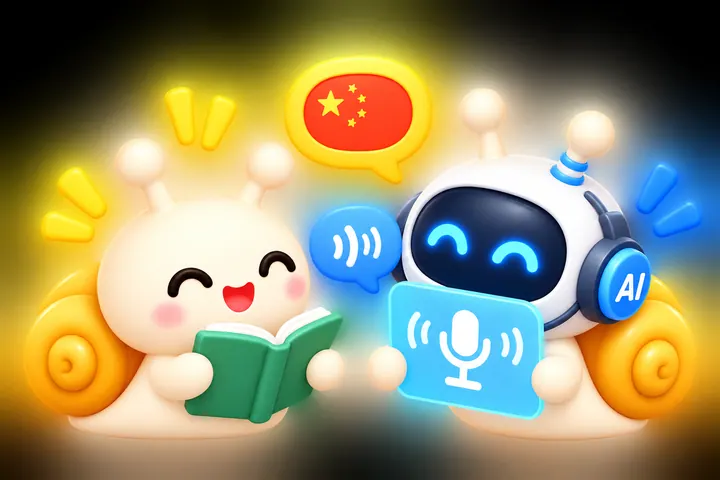
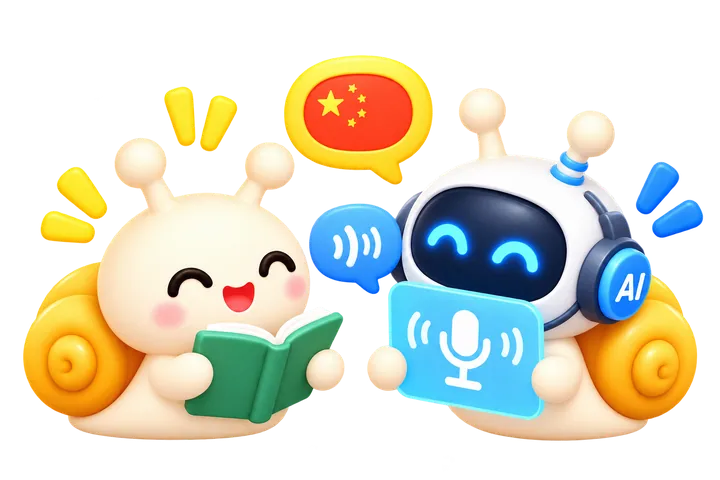
v115

diff --git a/app.js b/app.js
@@ -35,7 +35,7 @@
     }, wait);
   }
 
-  var APP_VERSION = 'v141';
+  var APP_VERSION = 'v147';
 
   var QMAP = {};
   LESSONS.forEach(function (l) { l.qs.forEach(function (q) { QMAP[q.id] = q; }); });
@@ -600,7 +600,7 @@
 
   /* ---------- 화면 이동 ---------- */
   // 뒤로 가기: 폰의 뒤로 제스처·버튼(기록)과 화면 왼쪽 가장자리에서 오른쪽으로 미는 동작을 같이 처리해요
-  var SUBSCREEN = { pay: 1, privacy: 1, login: 1, intro: 1, practice: 1, quiz: 1, stats: 1, done: 1, hsk: 1, hskstudy: 1, tone: 1, feedback: 1, speed: 1, account: 1, coupon: 1, aicharge: 1, aichat: 1, aiall: 1, aichats: 1, aichatlog: 1, scene: 1, chain: 1, prefs: 1, about: 1, advisor: 1 };
+  var SUBSCREEN = { pay: 1, privacy: 1, login: 1, intro: 1, practice: 1, quiz: 1, stats: 1, done: 1, hsk: 1, hskstudy: 1, tone: 1, feedback: 1, speed: 1, account: 1, coupon: 1, aicharge: 1, aichat: 1, aiall: 1, aichats: 1, aichatlog: 1, scene: 1, chain: 1, phrases: 1, prefs: 1, about: 1, advisor: 1 };
   var inSub = false, ignorePop = 0, backAnim = false;
   function syncHistory(screen) {
     try {
@@ -638,7 +638,7 @@
     else if (sc === 'scene') { stopSpeak(); scStopRec(); state.sc = null; go('tab'); }
     else if (sc === 'done') go('tab', { tab: 'home' });
     else if (sc === 'feedback' || sc === 'account' || sc === 'coupon') go('prefs');
-    else if (sc === 'intro' || sc === 'stats' || sc === 'aicharge' || sc === 'aiall' || sc === 'prefs' || sc === 'about' || sc === 'advisor') go('tab');
+    else if (sc === 'intro' || sc === 'stats' || sc === 'aicharge' || sc === 'aiall' || sc === 'phrases' || sc === 'prefs' || sc === 'about' || sc === 'advisor') go('tab');
   }
   window.addEventListener('popstate', function () {
     if (ignorePop > 0) { ignorePop--; return; }
@@ -876,7 +876,7 @@
     var basePct = Math.min(goalPct, 100) / scale * 100, tickPct = 100 / scale * 100, fillPct = Math.min(goalPct, 300) / scale * 100;
     var capTxt = goalPct > 100 ? '목표보다 ' + (ans - goal) + '문제 더 했어요' : '오늘 목표를 채웠어요';
     var goalCard = '<div class="goal-card' + (hit ? ' hit' : '') + (goalPct > 100 ? ' over' : '') + '"><div class="goal-top"><span>오늘 목표</span>' +
-      (hit ? '<em class="goal-pct">달성!</em>' : '<b>' + Math.min(ans, 9999) + ' / ' + goal + '문제</b>') + '</div>' +
+      (hit ? '<em class="goal-pct">달성!</em>' : '<b>' + Math.min(Math.round(ans / goal * 100), 999) + '%</b>') + '</div>' +
       '<div class="goal-bar"><i class="gb-base" style="width:' + basePct + '%"></i>' +
       (goalPct > 100 ? '<i class="gb-over" style="left:' + tickPct + '%;width:' + (fillPct - tickPct) + '%"></i><span class="gb-tick" style="left:' + tickPct + '%"></span>' : '') + '</div>' +
       (hit ? '<div class="goal-sub"><span>' + capTxt + '</span><span>' + Math.min(ans, 9999) + ' / ' + goal + '문제</span></div>' : '') + '</div>';
@@ -915,7 +915,8 @@
       '<div class="row"><div class="txt"><div class="zh p-zh">' + esc(ph[0]) + '</div><div class="py p-py">' + esc(ph[1]) + '</div>' +
       '<div class="kr p-kr">' + esc(kr(ph[1])) + '</div><div class="ko p-ko">' + esc(ph[2]) + '</div></div>' +
       '<div class="p-btns"><button class="round-btn" data-act="say" data-text="' + esc(ph[0]) + '" aria-label="오늘의 한 문장 듣기">' + I.spk + '</button>' +
-      '<button class="star' + (isFav(ph[0]) ? ' on' : '') + '" data-act="fav" data-text="' + esc(ph[0]) + '" aria-pressed="' + (isFav(ph[0]) ? 'true' : 'false') + '" aria-label="문장 저장">' + I.star + '</button></div></div></div>' : '';
+      '<button class="star' + (isFav(ph[0]) ? ' on' : '') + '" data-act="fav" data-text="' + esc(ph[0]) + '" aria-pressed="' + (isFav(ph[0]) ? 'true' : 'false') + '" aria-label="문장 저장">' + I.star + '</button></div></div>' +
+      '<button class="phrase-past" data-act="open-phrases">지난 문장 보기<svg width="16" height="16" viewBox="0 0 24 24" fill="none" stroke="currentColor" stroke-width="2.6" stroke-linecap="round" stroke-linejoin="round" aria-hidden="true"><polyline points="9 6 15 12 9 18"/></svg></button></div>' : '';
     return '<div class="screen"><div class="scroll with-nav home-scroll' + (rtot > 0 ? ' has-review' : '') + '">' + head + goalCard + reviewCard + todayCard + lightCard + phraseCard + nextCard + '</div>' + navHtml() + '</div>';
   }
 
@@ -956,11 +957,10 @@
       '<h1 class="big-title">전체 레슨</h1>' +
       '<p class="sub-title">' + '배운 내용을 활용해 보며 자연스럽게 익혀가요.' + '</p>' +
       scenesSection() +
-      (SCENES.length ? '<div class="section-title sc-old">기존 레슨</div>' : '') +
-      '<div class="lesson-progress"><div class="row"><b>' + n + ' / ' + LESSONS.length + '</b><span>레슨 완료</span></div>' +
-      '<div class="progress" role="progressbar" aria-valuemin="0" aria-valuemax="100" aria-valuenow="' + pct + '"><i style="width:' + pct + '%"></i></div></div>' +
       practiceBlock() +
       '<div class="section-title" style="margin-top:24px">말하기 레슨</div>' +
+      '<div class="lesson-progress"><div class="row"><b>' + n + ' / ' + LESSONS.length + '</b><span>레슨 완료</span></div>' +
+      '<div class="progress" role="progressbar" aria-valuemin="0" aria-valuemax="100" aria-valuenow="' + pct + '"><i style="width:' + pct + '%"></i></div></div>' +
       '<ul class="list" style="margin-top:0">' + list + '</ul>' +
       (take < LESSONS.length ? '<button class="more-btn" data-act="lessons-more">레슨 더보기 (' + Math.min(7, LESSONS.length - take) + '개 더 · 전체 ' + LESSONS.length + '개)</button>' : '') +
       '</div>' + navHtml() + '</div>';
@@ -1010,7 +1010,7 @@
       '<button class="btn btn-3d" data-act="' + (member ? 'open-pay' : 'ai-login') + '">' + (member ? '멤버십 보기' : '회원가입 · 로그인') + '</button></div>';
   }
   function viewAi() {
-    var head = '<h1 class="big-title">AI 대화</h1><p class="sub-title">틀려도 괜찮아요. 편하게 말해 보세요.</p>';
+    var head = '<h1 class="big-title">AI 대화</h1>' + (aiOn() ? '<p class="sub-title">틀려도 괜찮아요. 편하게 말해 보세요.</p>' : '');
     var body;
     if (aiOn()) {
       if ((!state.chats || state.chatsUid !== (state.user && state.user.id)) && !state.chatsBusy) { state.chatsBusy = true; chatsInit().then(function () { state.chatsBusy = false; if (state.screen === 'tab' && state.tab === 'review') renderKeep(); }); }
@@ -1026,10 +1026,17 @@
     var favs = state.profile.favs.map(function (zh) { return PHRASES.filter(function (p) { return p[0] === zh; })[0]; }).filter(Boolean);
     var h = '';
     if (favs.length) h += '<div class="section-title" style="margin-top:28px">저장한 문장 ' + favs.length + '</div><div class="words">' + favs.map(phraseRow).join('') + '</div>';
-    var past = [];
-    for (var i = 1; i <= 6; i++) { var p = phraseAt(i); if (p && past.indexOf(p) < 0) past.push(p); }
-    if (past.length) h += '<div class="section-title" style="margin-top:28px">지난 오늘의 한 문장</div><div class="words">' + past.map(phraseRow).join('') + '</div>';
     return h;
+  }
+  // 지난 오늘의 한 문장: 홈의 '지난 문장 보기'에서 열려요 (어제부터 최대 30개)
+  function viewPhrases() {
+    var past = [];
+    for (var i = 1; i <= 30; i++) { var p = phraseAt(i); if (p && past.indexOf(p) < 0) past.push(p); }
+    return '<div class="screen"><div class="topbar"><button class="icon-btn" data-act="back" aria-label="뒤로">' + I.back + '</button></div>' +
+      '<div class="scroll" style="padding-top:4px"><h1 class="big-title" style="margin-top:0">지난 오늘의 한 문장</h1>' +
+      '<p class="sub-title">어제부터 최근 ' + past.length + '개예요. 듣고, 별을 눌러 저장해요.</p>' +
+      (past.length ? '<div class="words">' + past.map(phraseRow).join('') + '</div>' : '<div class="chat-empty">아직 지난 문장이 없어요.</div>') +
+      '<div style="height:60px"></div></div></div>';
   }
   // 단어장: 레슨이 많아져도 보기 편하도록 레슨별로 접고 펼치고, 검색할 수 있어요
   var wordsUi = { open: null, q: '' };
@@ -2333,6 +2340,7 @@
     else if (state.screen === 'coupon') html = viewCoupon();
     else if (state.screen === 'aicharge') html = viewAiCharge();
     else if (state.screen === 'aiall') html = viewAiAll();
+    else if (state.screen === 'phrases') html = viewPhrases();
     else if (state.screen === 'aichats') html = viewChatAll();
     else if (state.screen === 'aichatlog') html = viewChatLog();
     else if (state.screen === 'prefs') html = viewPrefs();
@@ -3550,8 +3558,12 @@
       '<span class="chip" style="min-width:48px;justify-content:center">' + (c.stage === 'mission' ? total : Math.min(done + (resolved ? 0 : 1), total)) + '/' + total + '</span></div>';
   }
   function scStageTag(c) {
-    var n = { speak: 1, blank: 2, listen: 3, mission: 4 }[c.stage];
-    return '<div class="sc-stage"><b>' + n + '</b>' + SC_STAGE[c.stage] + '</div>';
+    if (c.stage === 'mission') return '<div class="sc-stage"><b>' + I.check + '</b>' + SC_STAGE.mission + '</div>';
+    var order = ['speak', 'blank', 'listen'], cur = order.indexOf(c.stage);
+    return '<ol class="sc-steps" aria-label="진행 단계">' + order.map(function (k, i) {
+      var st = i < cur ? 'done' : i === cur ? 'on' : '';
+      return '<li class="' + st + '"' + (i === cur ? ' aria-current="step"' : '') + '><b>' + (i < cur ? I.check : i + 1) + '</b><span>' + SC_STAGE[k] + '</span></li>';
+    }).join('') + '</ol>';
   }
   function scVerdict(ok, c) {
     if (ok === null) return '<div class="qz-slot"></div>';
@@ -3589,22 +3601,22 @@
     if (c.stage === 'speak') {
       var l = sc.lines[c.i], canSkip = c.pass || c.tries >= 2 || c.noSR;
       var live = c.pass ? '' : c.msg ? esc(c.msg) : c.tries ? '다시 한번 말해 보세요' : '버튼을 누른 채로 따라 말해요';
-      var body = '<div class="qz-wrap sc-pad">' + scStageTag(c) + '<div class="sc-ctx"><span>' + sc.icon + ' ' + esc(sc.title) + '</span><em>' + (c.i + 1) + '번째 문장</em></div>' +
-        '<div class="sc-card"><button class="round-btn sc-spk" data-act="say" data-text="' + esc(l[0]) + '" aria-label="듣기">' + I.spk + '</button>' + scLineView(l) + '</div>' + scKrRow(l) +
-        (c.pass ? scVerdict(true, c) : (c.heard ? '<div class="sc-heard">들린 말: ' + esc(c.heard) + '</div>' : '')) + '</div>';
+      var body = '<div class="qz-wrap sc-fit">' + scStageTag(c) + '<div class="sc-ctx"><span>' + sc.icon + ' ' + esc(sc.title) + '</span><em>' + (c.i + 1) + '번째 문장</em></div><div class="sc-main">' +
+        '<div class="sc-box"><div class="sc-card"><button class="round-btn sc-spk" data-act="say" data-text="' + esc(l[0]) + '" aria-label="듣기">' + I.spk + '</button>' + scLineView(l) + '</div>' + scKrRow(l) + '</div>' +
+        '<div class="sc-heard-slot">' + (!c.pass && c.heard ? '<div class="sc-heard">들린 말: ' + esc(c.heard) + '</div>' : '') + '</div></div></div>';
       var foot;
-      if (c.pass) foot = '<div class="footer"><button class="btn green" data-act="sc-next">다음</button></div>';
+      if (c.pass) foot = qzFoot(true, true, c.combo >= 2 ? '연속 ' + c.combo + '번 정답' : '잘했어요', 'sc-next', '다음');
       else foot = '<div class="mic-area"><div id="live" class="live hint">' + live + '</div>' +
         (c.noSR ? '' : '<button id="scmic" class="mic' + (c.listening ? ' on' : '') + '" data-hold="scmic" aria-label="누른 채로 따라 말하기">' + I.mic + '</button>') +
         (canSkip ? '<button class="link-btn" data-act="sc-skip">' + (c.noSR ? '따라 말했어요' : '넘어가기') + '</button>' : '<div style="height:20px"></div>') + '</div>';
-      return '<div class="screen">' + top + body + foot + '</div>';
+      return '<div class="screen qz-fit">' + top + body + foot + '</div>';
     }
     var it = c[c.stage][c.i], l2 = sc.lines[it.i], answered = c.picked !== null, prompt, opts, ok = false;
     if (c.stage === 'blank') {
       var parts = l2[0].split(l2[3]).map(esc);
       var shown = answered ? parts.join('<mark class="sc-key">' + esc(l2[3]) + '</mark>') : parts.join('<span class="sc-blank">＿＿</span>');
-      prompt = answered ? '<div class="sc-card">' + scLineView(l2, l2[3]) + '</div>' + scKrRow(l2)
-        : '<div class="sc-card sc-q"><div class="sc-zh big">' + shown + '</div><div class="sc-ko">' + esc(l2[2]) + '</div></div>';
+      prompt = '<div class="sc-box">' + (answered ? '<div class="sc-card">' + scLineView(l2, l2[3]) + '</div>' + scKrRow(l2)
+        : '<div class="sc-card sc-q"><div class="sc-zh big">' + shown + '</div><div class="sc-ko">' + esc(l2[2]) + '</div></div>') + '</div>';
       ok = answered && it.opts[c.picked] === it.ans;
       opts = '<div class="qz-opts">' + it.opts.map(function (o, i) {
         var cls = 'opt zh-opt';
@@ -3612,7 +3624,8 @@
         return '<button class="' + cls + '" data-act="sc-pick" data-id="' + i + '"' + (answered ? ' disabled' : '') + '>' + esc(o) + '</button>';
       }).join('') + '</div>';
     } else {
-      prompt = '<div class="qz-prompt"><button class="listen-btn" data-act="say" data-text="' + esc(l2[0]) + '" aria-label="다시 듣기">' + I.spk + '</button><div class="qz-cap">소리를 듣고 알맞은 뜻을 골라요</div></div>';
+      prompt = '<div class="sc-box">' + (answered ? '<div class="sc-card sc-reveal"><button class="round-btn sc-spk" data-act="say" data-text="' + esc(l2[0]) + '" aria-label="듣기">' + I.spk + '</button>' + scLineView(l2) + '</div>' + scKrRow(l2)
+        : '<div class="qz-prompt sc-listen"><button class="listen-btn" data-act="say" data-text="' + esc(l2[0]) + '" aria-label="다시 듣기">' + I.spk + '</button><div class="qz-cap">소리를 듣고 알맞은 뜻을 골라요</div></div>') + '</div>';
       ok = answered && it.opts[c.picked].ok;
       opts = '<div class="qz-opts">' + it.opts.map(function (o, i) {
         var cls = 'opt';
@@ -3620,9 +3633,8 @@
         return '<button class="' + cls + '" data-act="sc-pick" data-id="' + i + '"' + (answered ? ' disabled' : '') + '>' + esc(o.ko) + '</button>';
       }).join('') + '</div>';
     }
-    var reveal = answered && c.stage === 'listen' ? '<div class="sc-card sc-reveal">' + scLineView(l2) + '</div>' + scKrRow(l2) : '';
-    var foot2 = answered ? '<div class="footer"><button class="btn ' + (ok ? 'green' : '') + '" data-act="sc-next">' + (last ? 'AI 미션으로' : '다음') + '</button></div>' : '';
-    return '<div class="screen">' + top + '<div class="qz-wrap sc-pad">' + scStageTag(c) + prompt + scVerdict(answered ? ok : null, c) + opts + reveal + '</div>' + foot2 + '</div>';
+    var foot2 = qzFoot(answered, ok, ok ? (c.combo >= 2 ? '연속 ' + c.combo + '번 정답' : '잘했어요') : '괜찮아요, 정답을 확인해 봐요', 'sc-next', last ? 'AI 미션으로' : '다음');
+    return '<div class="screen qz-fit">' + top + '<div class="qz-wrap sc-fit">' + scStageTag(c) + '<div class="sc-ctx"><span>' + sc.icon + ' ' + esc(sc.title) + '</span><em>' + (c.i + 1) + '번째 문제</em></div><div class="sc-main">' + prompt + opts + '</div></div>' + foot2 + '</div>';
   }
   function viewSceneMission() {
     var c = state.sc, sc = sceneById(c.id), on = aiOn(), enough = on && aiBal() >= AI_CHAT_COST;
@@ -4341,6 +4353,7 @@
       case 'open-account': go('account'); break;
       case 'open-coupon': go('coupon'); break;
       case 'open-aicharge': go('aicharge'); break;
+      case 'open-phrases': go('phrases'); break;
       case 'open-aiall': state.aiallHint = false; go('aiall'); break;
       case 'open-prefs': go('prefs'); break;
       case 'zh-guide': askConfirm({ title: '중국어 음성 설치 방법', body: ZH_GUIDE, ok: '알겠어요', cancel: '닫기', m: 'sleep', left: true }); break;
@@ -4352,6 +4365,7 @@
         state.aiChipsOpen = !state.aiChipsOpen;
         var ch = document.querySelector('.ai-hero-chips'); if (ch) ch.classList.toggle('open', !!state.aiChipsOpen);
         el.textContent = state.aiChipsOpen ? '접기' : '더보기';
+        fitChips();   // 닫혀 있을 때 정해 둔 높이 제한을 풀거나(펼침) 다시 2줄로 자름(접기)
         break;
       }
       case 'ai-chip': {

diff --git a/styles.css b/styles.css
@@ -2159,16 +2159,123 @@ html, body, * { scrollbar-width: none; -ms-overflow-style: none; }
   .qz-fb { min-height: 40px; } .qz-fb img { width: 40px; height: 40px; } .qz-fb .qv-t span { display: none; }
 }
 
-/* v141 AI 대화 안내(가입·멤버십) */
-.ai-promo { display: grid; gap: var(--sp-3); }
-.ap-hero { border-radius: 24px; overflow: hidden; background: #05060a; aspect-ratio: 3 / 2; }
-.ap-hero img { display: block; width: 100%; height: 100%; object-fit: cover; }
-.ai-promo h2 { margin: var(--sp-2) 0 0; font-size: 22px; line-height: 1.3; font-weight: 900; letter-spacing: -.02em; color: var(--navy); text-wrap: balance; word-break: keep-all; }
-.ap-sub { margin: 0; font-size: 14px; color: var(--ink-2); font-weight: 600; }
-.ap-list { list-style: none; margin: var(--sp-1) 0 var(--sp-2); padding: 0; display: grid; gap: var(--sp-3); }
-.ap-list li { display: flex; align-items: flex-start; gap: var(--sp-3); padding: var(--sp-3) var(--sp-4); border-radius: 18px; background: var(--card); box-shadow: inset 0 0 0 1.5px var(--line); }
-.ap-list li i { flex: none; width: 28px; height: 28px; border-radius: 50%; background: var(--y); color: #1A2139; display: grid; place-items: center; margin-top: 1px; }
-.ap-list b { display: block; font-size: 15px; line-height: 1.35; color: var(--navy); word-break: keep-all; }
-.ap-list span { display: block; margin-top: 2px; font-size: 13px; line-height: 1.45; color: var(--ink-2); word-break: keep-all; }
-.ai-promo .btn { margin-top: var(--sp-1); }
-.ai-promo .btn { position: sticky; bottom: calc(var(--sp-3) + 68px + var(--safe-b, 0px)); z-index: 5; box-shadow: 0 -10px 18px var(--bg); }
+/* v141 AI 대화 안내(가입·멤버십): 화면 높이에 맞춰 줄어들어 스크롤이 생기지 않아요 */
+.ai-promo { display: grid; gap: clamp(6px, 1.2dvh, 12px); }
+.ap-hero { height: clamp(120px, 25dvh, 250px); margin: 0 calc(var(--sp-3) * -1); }
+.ap-hero img { display: block; width: 100%; height: 100%; object-fit: contain; }
+.ai-promo h2 { margin: 0; font-size: clamp(19px, 2.9dvh, 22px); line-height: 1.3; font-weight: 900; letter-spacing: -.02em; color: var(--navy); text-wrap: balance; word-break: keep-all; text-align: center; }
+.ap-sub { margin: -2px 0 0; font-size: 13.5px; color: var(--ink-2); font-weight: 600; text-align: center; }
+.ap-list { list-style: none; margin: var(--sp-1) 0 0; padding: 0; display: grid; gap: clamp(6px, 1dvh, 10px); }
+.ap-list li { display: flex; align-items: center; gap: var(--sp-3); padding: clamp(8px, 1.3dvh, 12px) var(--sp-4); border-radius: 16px; background: var(--card); box-shadow: inset 0 0 0 1.5px var(--line); }
+.ap-list li i { flex: none; width: 26px; height: 26px; border-radius: 50%; background: var(--y); color: #1A2139; display: grid; place-items: center; }
+.ap-list b { display: block; font-size: 14.5px; line-height: 1.3; color: var(--navy); word-break: keep-all; }
+.ap-list span { display: block; margin-top: 1px; font-size: 12.5px; line-height: 1.4; color: var(--ink-2); word-break: keep-all; }
+.ai-promo .btn { position: sticky; bottom: calc(var(--sp-3) + 68px + var(--safe-b, 0px)); z-index: 5; margin-top: var(--sp-1); }
+@media (max-height: 820px) { .ap-list span { display: none; } }
+@media (max-height: 640px) {
+  .ap-hero { height: 84px; }
+  .ap-sub { display: none; }
+  .ap-list li { padding: 6px var(--sp-3); }
+  .ap-list { gap: 6px; }
+}
+
+/* v143 지난 문장 링크 */
+.phrase-past { display: flex; align-items: center; justify-content: center; gap: var(--sp-1); width: 100%; margin-top: var(--sp-3); padding: var(--sp-2) 0 0; border: 0; border-top: 1px solid var(--line); background: none; color: var(--ink-2); font: inherit; font-size: 14px; font-weight: 700; }
+.phrase-past:active { color: var(--navy); }
+
+/* v144 상황 레슨 단계 표시 + 글자 한 단계 키움 */
+.sc-steps { list-style: none; margin: var(--sp-2) 0 var(--sp-3); padding: 0; display: flex; align-items: flex-start; justify-content: space-between; position: relative; }
+.sc-steps::before { content: ""; position: absolute; left: 16%; right: 16%; top: 14px; height: 3px; border-radius: 2px; background: var(--line); }
+.sc-steps li { position: relative; z-index: 1; flex: 1; display: grid; justify-items: center; gap: var(--sp-1); font-size: 12.5px; font-weight: 700; color: var(--ink-3); }
+.sc-steps li b { width: 29px; height: 29px; border-radius: 50%; display: grid; place-items: center; background: var(--card); box-shadow: inset 0 0 0 2px var(--line); font-size: 14px; font-weight: 800; color: var(--ink-3); }
+.sc-steps li b svg { width: 15px; height: 15px; }
+.sc-steps li.on { color: var(--navy); }
+.sc-steps li.on b { background: var(--y); box-shadow: 0 0 0 4px color-mix(in srgb, var(--y) 35%, transparent); color: var(--on-yellow, var(--navy)); }
+.sc-steps li.done { color: var(--ink-2); }
+.sc-steps li.done b { background: #0e9f63; box-shadow: none; color: #fff; }
+.sc-cz { font-size: 28px; }
+.sc-cp { font-size: 13.5px; }
+.sc-gloss { font-size: 15px; }
+.sc-ko { font-size: 16px; }
+.sc-py { font-size: 17px; }
+@media (max-width: 340px) { .sc-cz { font-size: 24px; } .sc-cp { font-size: 13px; } }
+.qz-wrap.sc-pad:has(+ .mic-area) { padding-bottom: calc(190px + var(--safe-b, 0px)); }
+.lesson-progress { margin-bottom: var(--sp-3); }
+
+/* v145 상황 레슨: 폰 높이에 맞춰 카드·글자·선택지가 커지고, 정답을 골라도 위치가 움직이지 않아요 */
+.qz-wrap.sc-fit { padding-bottom: var(--sp-2); }
+.sc-fit .sc-box { height: clamp(220px, 37dvh, 440px); display: flex; flex-direction: column; justify-content: center; gap: var(--sp-2); }
+.sc-fit .sc-card { width: 100%; padding: var(--sp-4); display: grid; align-content: center; gap: var(--sp-2); }
+.sc-fit .sc-card.sc-q { min-height: 0; }
+.sc-fit .sc-cz { font-size: clamp(28px, 3.8dvh, 42px); }
+.sc-fit .sc-cp { font-size: clamp(13.5px, 1.8dvh, 16px); }
+.sc-fit .sc-gloss { font-size: clamp(15px, 2dvh, 17px); }
+.sc-fit .sc-ko { font-size: clamp(16px, 2.1dvh, 18px); }
+.sc-fit .sc-zh.big { font-size: min(clamp(28px, 4.6dvh, 46px), calc((100vw - 80px) / 7)); }
+.sc-fit .sc-py { font-size: clamp(17px, 2.2dvh, 19px); }
+.sc-fit .sc-listen { align-self: center; }
+.sc-fit .sc-listen .listen-btn { width: clamp(88px, 13dvh, 128px); height: clamp(88px, 13dvh, 128px); }
+.sc-heard-slot { min-height: 28px; display: grid; place-items: center; }
+.sc-fit .qz-opts { gap: var(--sp-3); }
+.sc-fit .opt { min-height: clamp(48px, 7.4dvh, 68px); padding: 0 20px; display: flex; align-items: center; font-size: clamp(16px, 2.4dvh, 19px); border-radius: 18px; animation: none !important; }
+.sc-fit .opt.zh-opt { justify-content: center; font-family: var(--zh); font-size: clamp(20px, 3dvh, 26px); }
+@media (max-height: 640px) {
+  .sc-fit .sc-box { height: 200px; }
+  .sc-fit .sc-card { padding: var(--sp-3); }
+  .sc-fit .opt { min-height: 42px; }
+}
+/* v145b 하단 영역 높이를 모든 단계에서 똑같이: 단계 표시 위치가 움직이지 않아요 */
+.screen.qz-fit:has(.sc-fit) { --ft-h: 168px; }
+.screen.qz-fit:has(.sc-fit) > .mic-area, .screen.qz-fit:has(.sc-fit) > .qz-foot2 { height: var(--ft-h); box-sizing: border-box; }
+.screen.qz-fit:has(.sc-fit) > .qz-foot2 { align-content: end; }
+.screen.qz-fit:has(.sc-fit) > .mic-area { align-content: end; }
+.sc-fit .sc-box { height: clamp(200px, 33dvh, 420px); }
+@media (max-height: 640px) {
+  .screen.qz-fit:has(.sc-fit) { --ft-h: 132px; }
+  .screen.qz-fit:has(.sc-fit) .mic { width: 64px; height: 64px; }
+  .sc-fit .sc-box { height: 150px; }
+  .sc-fit .sc-card { padding: var(--sp-2) var(--sp-3); }
+}
+
+.sc-fit .sc-box { height: auto; min-height: clamp(200px, 33dvh, 420px); }
+@media (max-height: 640px) { .sc-fit .sc-box { min-height: 150px; } }
+
+/* v146 단계 표시는 모든 단계에서 상단 같은 자리 고정, 주제·문장 번호는 영역으로 감싸기 */
+.sc-fit .sc-steps { margin: var(--sp-2) 0 var(--sp-3); flex: none; }
+.sc-fit .sc-ctx { flex: none; margin: 0 0 var(--sp-3); padding: var(--sp-3) var(--sp-4); border-radius: 16px; background: var(--card); box-shadow: inset 0 0 0 1.5px var(--line); font-size: 15px; font-weight: 700; color: var(--navy); }
+.sc-fit .sc-ctx em { font-weight: 600; }
+.sc-main { flex: 1 1 0; min-height: 0; display: flex; flex-direction: column; }
+.sc-main::before, .sc-main::after { content: ""; flex: 1 1 0; min-height: 0; }
+.sc-main::after { flex-grow: 1.15; }
+@media (max-height: 640px) { .sc-fit .sc-ctx { padding: var(--sp-2) var(--sp-3); margin-bottom: var(--sp-2); } }
+.sc-main { overflow-y: auto; overflow-x: clip; }
+.sc-fit .opt { min-height: clamp(44px, 6.6dvh, 66px); }
+.sc-fit .sc-box { min-height: clamp(190px, 30dvh, 400px); }
+.screen.qz-fit:has(.sc-fit) { --ft-h: 156px; }
+/* v147 하단 높이 고정 해제(단계 표시는 이미 상단 고정), 안전한 가운데 정렬 */
+.screen.qz-fit:has(.sc-fit) > .mic-area, .screen.qz-fit:has(.sc-fit) > .qz-foot2 { height: auto; }
+.sc-fit .sc-box { justify-content: flex-start; }
+.sc-fit .sc-box > :first-child { margin-top: auto; }
+.sc-fit .sc-box > :last-child { margin-bottom: auto; }
+.sc-fit .sc-box { min-height: clamp(170px, 27dvh, 380px); }
+.sc-fit .sc-cz { font-size: clamp(26px, 3.5dvh, 40px); }
+.sc-fit .opt { min-height: clamp(44px, 6.2dvh, 64px); }
+.sc-fit .sc-card { padding: var(--sp-3) var(--sp-4); }
+.sc-main { overflow-y: auto; }
+@media (max-height: 640px) { .sc-fit .sc-box { min-height: 120px; } .sc-fit .sc-cz { font-size: 23px; } .sc-fit .opt { min-height: 40px; } .sc-fit .sc-cp { font-size: 12.5px; } }
+/* v147b 긴 문장·작은 화면에서도 겹치지 않게: 덩어리가 4개 이상이면 글자를 조금 줄이고, 결과 영역을 컴팩트하게 */
+.sc-fit .sc-box, .sc-fit .qz-opts { flex: none; }
+.sc-fit .sc-chunks:has(.sc-chunk:nth-child(4)) .sc-cz { font-size: clamp(22px, 3dvh, 30px); }
+.sc-fit .sc-chunks:has(.sc-chunk:nth-child(4)) .sc-cp { font-size: 12px; }
+.sc-fit .sc-chunks:has(.sc-chunk:nth-child(4)) .sc-chunk { padding: 6px 10px; }
+.screen.qz-fit:has(.sc-fit) > .qz-foot2 { padding-top: var(--sp-1); }
+.screen.qz-fit:has(.sc-fit) .qz-fb { min-height: 44px; }
+.screen.qz-fit:has(.sc-fit) .qz-fb img { width: 44px; height: 44px; }
+.sc-fit .sc-steps { margin: var(--sp-1) 0 var(--sp-2); }
+.sc-fit .sc-ctx { margin-bottom: var(--sp-2); padding: var(--sp-2) var(--sp-4); }
+.sc-fit .sc-gloss { min-height: 20px; }
+@media (max-height: 640px) {
+  .sc-fit .sc-krtog { margin-top: 0; padding: 4px 8px; }
+  .sc-fit .qz-opts { gap: 6px; }
+  .screen.qz-fit:has(.sc-fit) .qz-fb .qv-t span { display: none; }
+}

diff --git a/README.md b/README.md
@@ -514,3 +514,25 @@ select kind, count(*) n, round(avg(in_tokens)) avg_in, round(avg(cache_read)) av
 
 ## v141
 - AI 대화 탭 안내 개편: 로그인 전은 '가입하면 좋은 점 4개', 로그인했지만 멤버십이 없으면 '멤버십 좋은 점 4개'. 맨 위에 캐릭터 이미지(img/ai-promo.webp, 22KB), 아래에 체크 목록과 버튼.
+
+## v142
+- AI 대화 안내: 이미지를 카드 없이 배경 위에 그대로 얹음(투명 PNG → 알파 유지 WebP). 제목·부제 간격 축소, 화면 높이(dvh)에 맞춰 이미지·목록 간격이 줄어 스크롤이 생기지 않게 조정. 640px대 낮은 화면은 항목 설명줄 숨김.
+
+## v143
+- 단어장의 '지난 오늘의 한 문장' 영역 삭제. 홈 '오늘의 한 문장' 카드 아래 '지난 문장 보기' → 별도 페이지(어제부터 최대 30개, 듣기·별 저장 가능).
+
+## v144
+- 상황 레슨: 상단을 3단계(따라 말하기·빈칸 채우기·듣고 고르기) 진행 표시로 변경(현재 단계 강조, 끝난 단계 체크, 다음 단계 흐리게). AI 미션 단계는 기존 태그. 덩어리 글자 한 단계 키움.
+- 레슨 탭: '기존 레슨' 제목 삭제, 진행률 카드(n/50 레슨 완료)를 '말하기 레슨' 목록 맨 위로 이동. 연습하기는 그 위에.
+- 홈: 오늘 목표 숫자(13/50문제) 대신 퍼센트(35%).
+
+## v145
+- 상황 레슨 카드(따라 말하기·빈칸·듣고 고르기): 화면 높이(dvh)에 맞춰 카드 높이·글자·선택지가 커지고 세로 가운데 정렬. 정답을 골라도 카드·선택지 위치가 움직이지 않음(결과는 하단 '다음' 버튼 위로).
+
+## v146
+- 상황 레슨: 단계 표시(1·2·3)를 모든 단계에서 상단 같은 위치에 고정. 주제+n번째 문장 줄을 카드 영역으로 감싸고 3단계 모두에 표시. 나머지(카드·선택지)만 남은 공간에서 가운데 정렬.
+
+## v147
+- AI 대화 '주제 더보기'가 안 열리던 문제 수정: 2줄 높이 제한(inline max-height)이 펼친 뒤에도 남아 있었음 → 토글 직후 fitChips()로 제한을 풀고/다시 적용. 주제 목록 자체(AC_TOPICS)는 그대로.
+- 상황 레슨: 단계 표시 상단 고정, 주제·문장 번호 영역 감싸기, 긴 문장 카드가 겹치지 않도록 높이 조정.
+- v147 추가: 상황 레슨 카드 박스가 내용만큼 늘어나도록 고정(겹침 해결), 덩어리 4개 이상 문장은 글자 약간 축소, 푸터 컴팩트화. 320×568 같은 아주 작은 화면은 가운데 영역만 스크롤됨.
